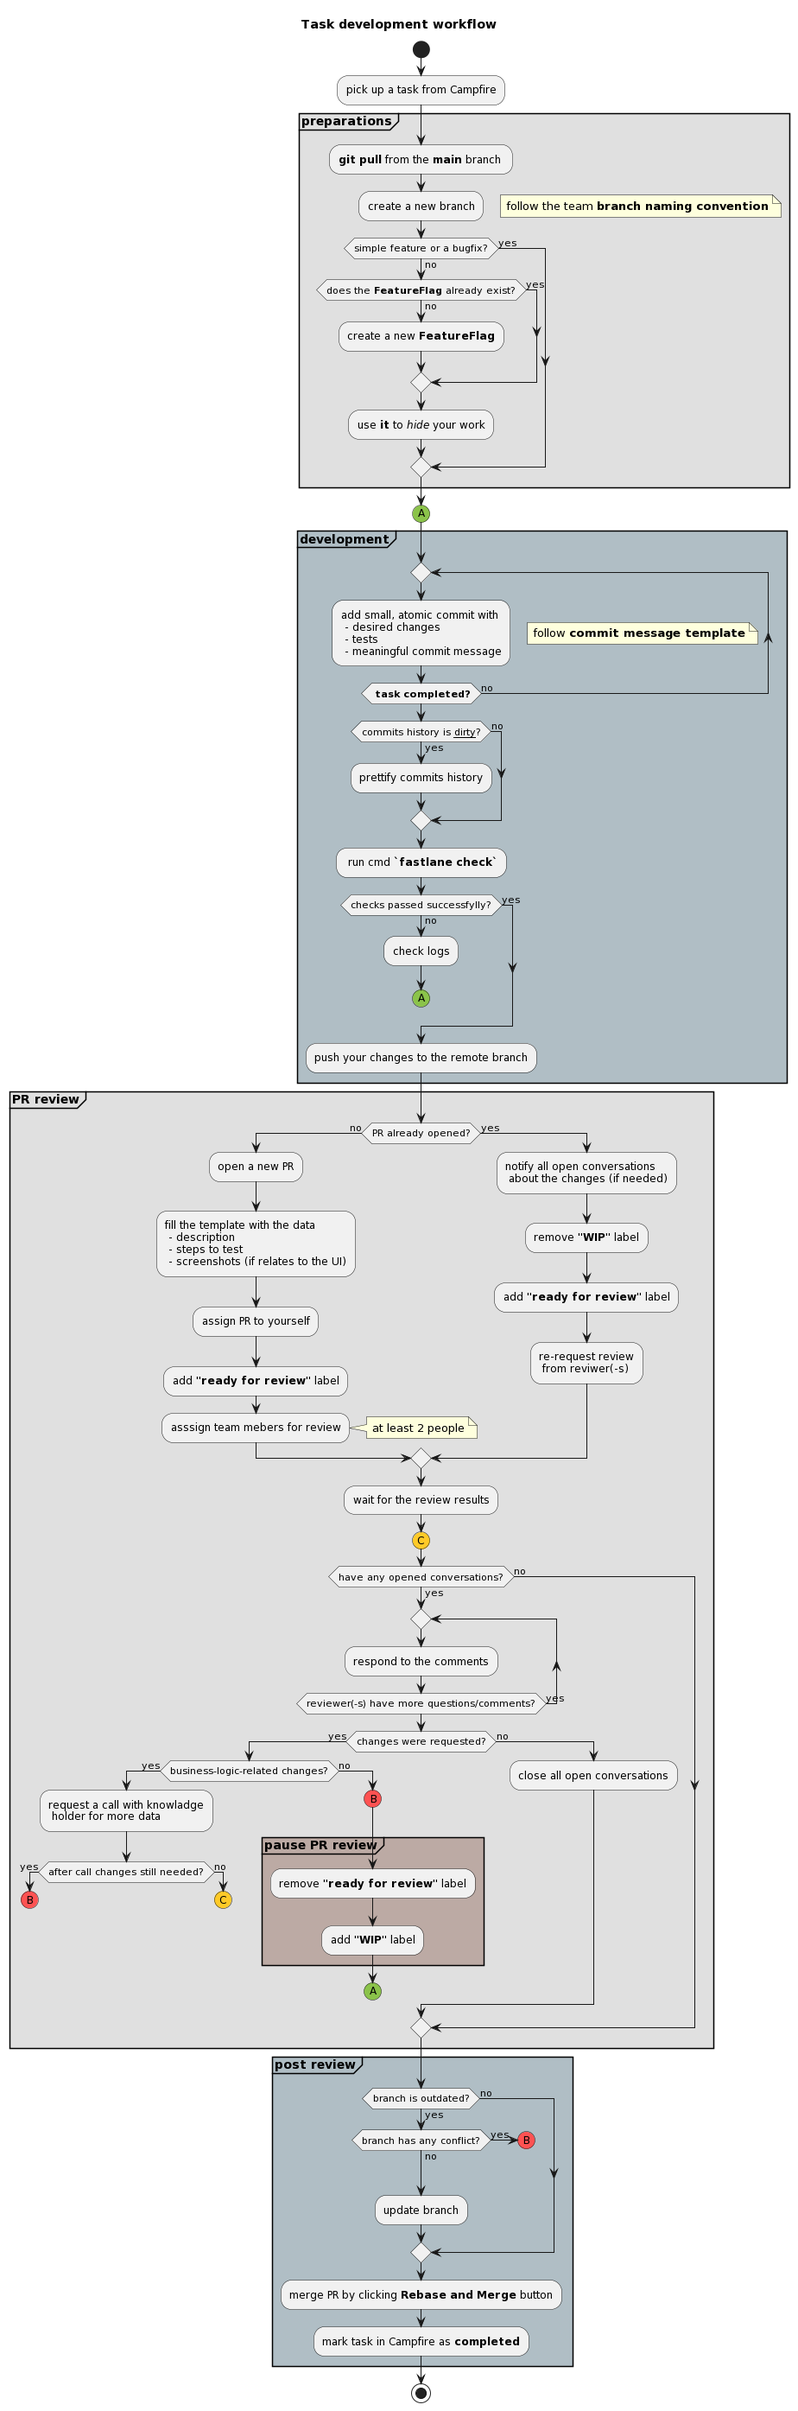
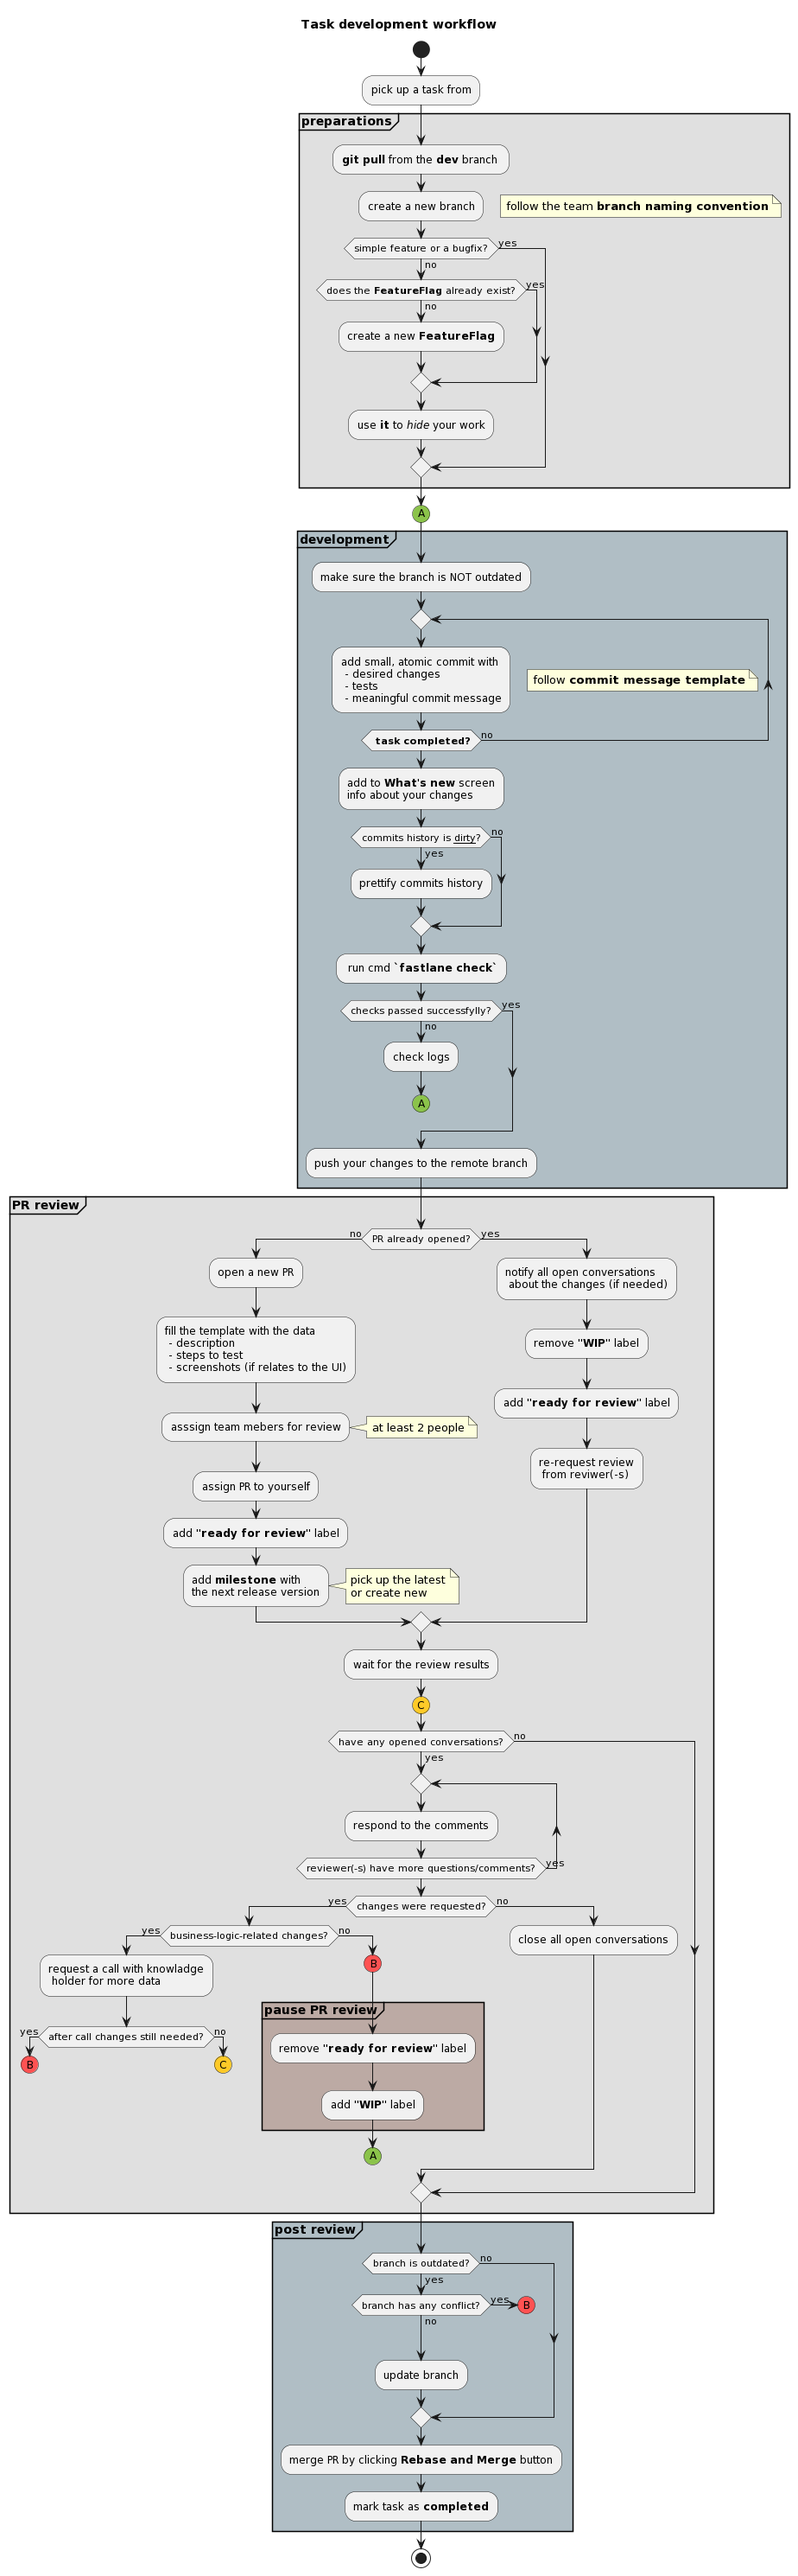
Update TASK_DEVELOPMENT_FLOW.md and image

diff --git a/docs/TASK_DEVELOPMENT_FLOW.md b/docs/TASK_DEVELOPMENT_FLOW.md
@@ -17,10 +17,10 @@ Some references from this doc:
     @startuml
     title: Task development workflow
     start
-    :pick up a task from Campfire;
+    :pick up a task from;
 
     partition #e0e0e0 "**preparations**" {
-      :**git pull** from the **main** branch ;
+      :**git pull** from the **dev** branch ;
       :create a new branch;
         floating note right: follow the team **branch naming convention**
       if (simple feature or a bugfix?) then (no)
@@ -36,6 +36,7 @@ Some references from this doc:
     #8BC34A:(A)
     
     partition #b0bec5 "**development**" {
+      :make sure the branch is NOT outdated;
       repeat
         :add small, atomic commit with
          - desired changes
@@ -43,6 +44,7 @@ Some references from this doc:
          - meaningful commit message;
           floating note right: follow **commit message template**
       repeat while (<b> task completed?) is (no)
+      :add to **What's new** screen\ninfo about your changes;
       if (commits history is __dirty__?) then (yes)
         :prettify commits history;
       else (no)
@@ -64,10 +66,12 @@ Some references from this doc:
          - description
          - steps to test
          - screenshots (if relates to the UI);
-        :assign PR to yourself;
-        :add **"ready for review"** label;
         :asssign team mebers for review;
           note right: at least 2 people
+        :assign PR to yourself;
+        :add **"ready for review"** label;
+        :add **milestone** with\nthe next release version;
+          note right: pick up the latest\nor create new
       else (yes)
         :notify all open conversations 
          about the changes (if needed);
@@ -123,7 +127,7 @@ Some references from this doc:
       else (no)
       endif
       :merge PR by clicking **Rebase and Merge** button;
-      :mark task in Campfire as **completed**;
+      :mark task as **completed**;
     }
     
     stop
